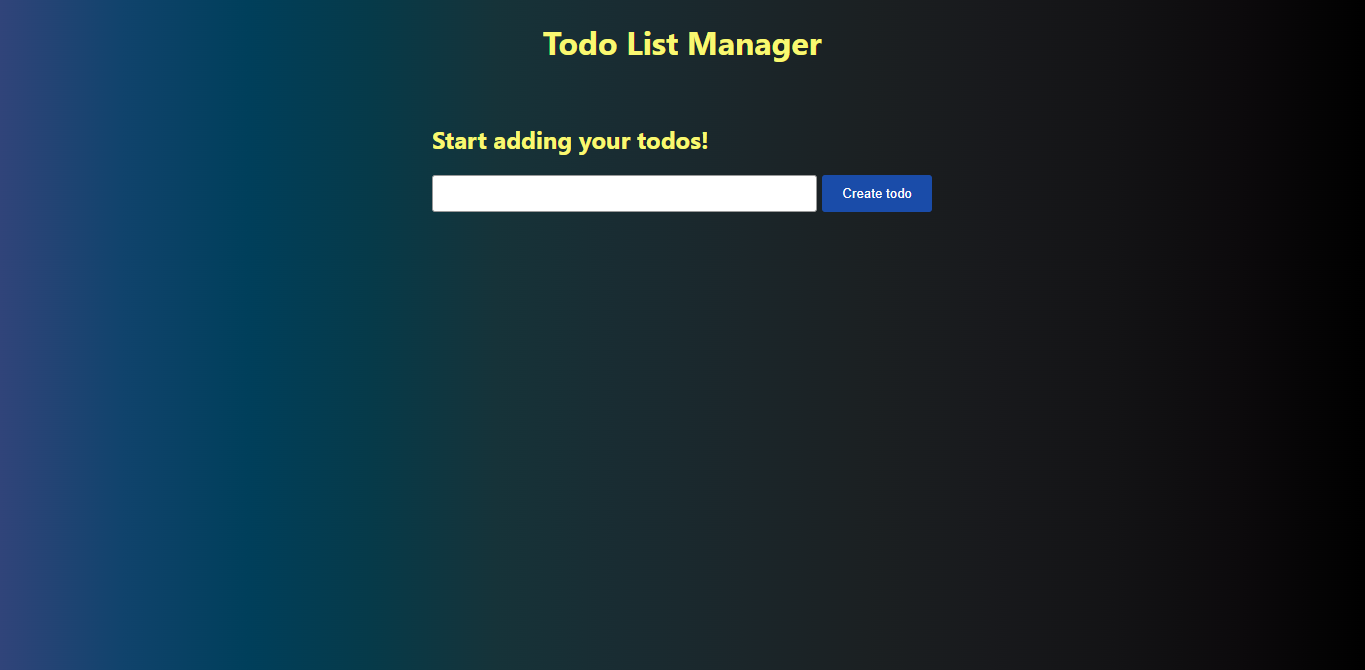
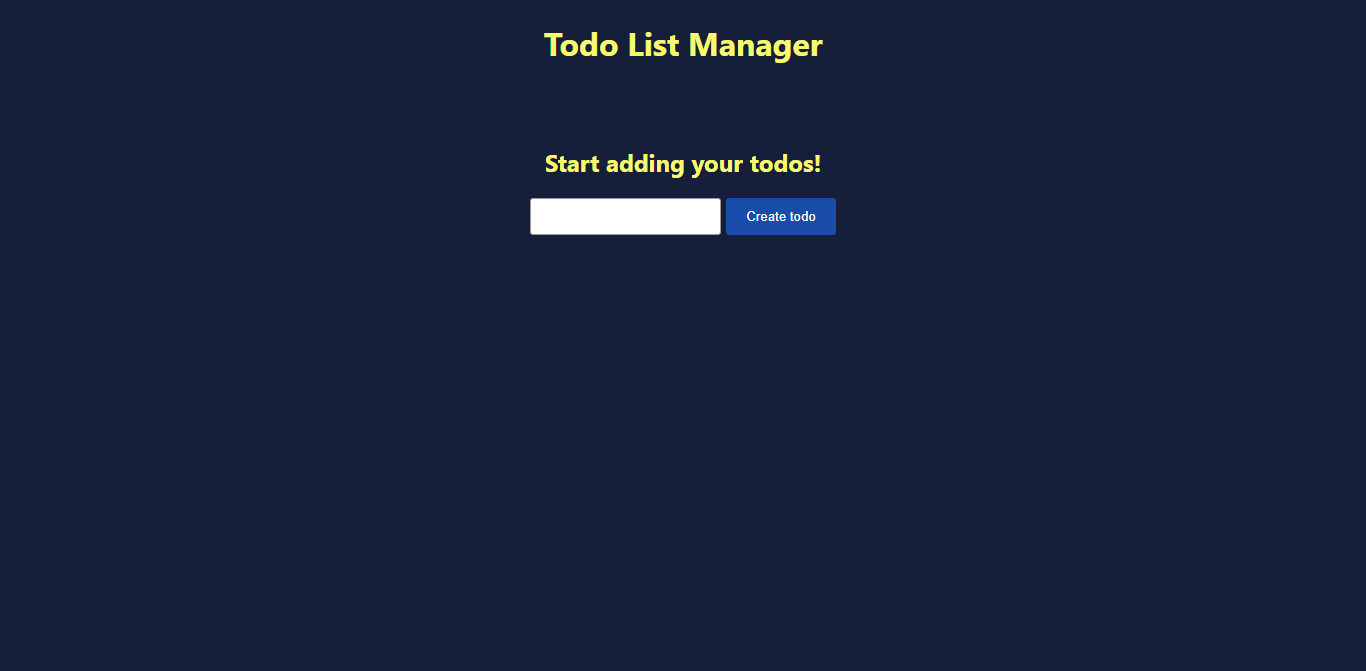
New image, also new style changes to support full functionality in mobile devices

diff --git a/src/index.css b/src/index.css
@@ -1,12 +1,14 @@
 body {
-  height: auto;
+  height: 100%;
+  width: auto;
   margin: 0;
   font-family: -apple-system, BlinkMacSystemFont, 'Segoe UI', 'Roboto', 'Oxygen',
     'Ubuntu', 'Cantarell', 'Fira Sans', 'Droid Sans', 'Helvetica Neue',
     sans-serif;
   -webkit-font-smoothing: antialiased;
   -moz-osx-font-smoothing: grayscale;
-  background-image: linear-gradient(to left, #000000, #0c0a0c, #131315, #18191c, #1b2022, #1b262a, #192c32, #163339, #063a49, #003f5b, #10436c, #31447a);}
+  background-color:#161f3a;
+}
 
 code {
   font-family: source-code-pro, Menlo, Monaco, Consolas, 'Courier New',

diff --git a/src/components/todoApp.css b/src/components/todoApp.css
@@ -6,13 +6,24 @@ h1 {
 
 h2 {
     color: #F9F871;
+    text-align: center;
+}
+
+main {
+    display: grid;
+    grid-template-columns: minmax(1px, 15px) minmax(200px, 1fr) minmax(1px, 15px);
+    grid-auto-flow: row;
 }
 
 .todoContainer {
-    width: 500px;
-    margin: 40px auto;
+    grid-column: 2/3;
     display: flex;
     flex-direction: column;
+    width: 100%;
+    max-width: 450px;;
+    margin: 40px auto;
+      
+    
 }
 
 .todoCreateForm {

diff --git a/src/components/TodoApp.js b/src/components/TodoApp.js
@@ -50,6 +50,7 @@ export default function TodoApp() {
     };
     
     return (
+    <main>
     <div className="todoContainer">
         <Counter todos={todos}/>
         <form 
@@ -74,5 +75,6 @@ export default function TodoApp() {
             }
         </div>
     </div>
+    </main>
     );
 };
